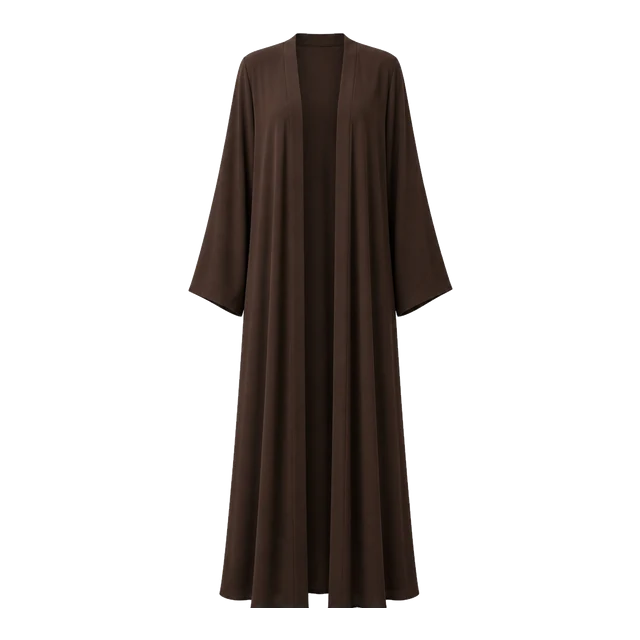
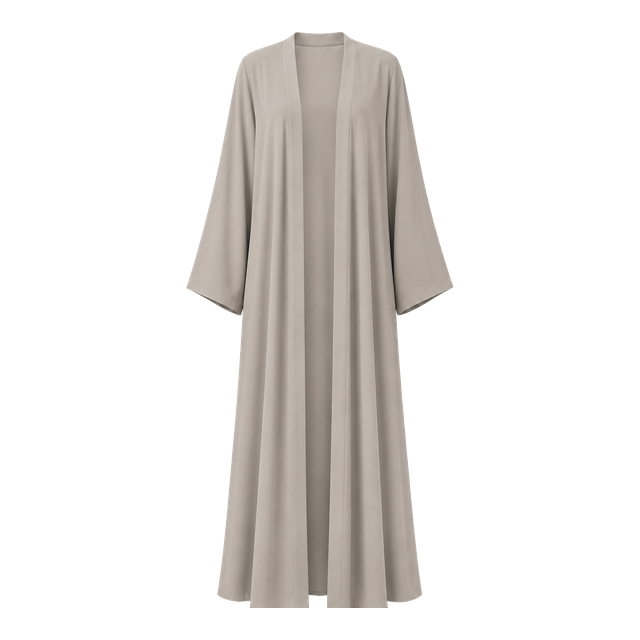
الفئاتُ السبعُ بلونٍ واحدٍ موحَّد
كانت الدفعةُ التي ركّبتُها ملوّنةً — فستانٌ خمريٌّ وعباءةٌ بنّيّةٌ وقميصٌ عاجيّ.
وهي دفعةٌ أولى ولّدها صاحبُ المنصّةِ ثمّ عادَ فولّدَ الرماديّةَ الموحّدة، وأنا
أخذتُ الأولى من مجلّدِ التنزيلاتِ بالتوقيتِ لا بالسؤال. الصفُّ خرجَ مبعثرَ
الألوانِ وهو نقيضُ ما طُلِب.

صارت السبعُ من الدفعةِ الرماديّةِ نفسِها: لونٌ واحدٌ وإضاءةٌ واحدةٌ وزاويةٌ
واحدة. والقصُّ بالتعبئةِ من الحوافِ كما قبل — فُحِصَ على أسودَ مصمتٍ فلا بقايا.

Changed region(s): [[0.2812, 0.0312, 0.7188, 0.9688]]

diff --git a/client/src/utils/platformCategories.js b/client/src/utils/platformCategories.js
@@ -60,7 +60,7 @@ export function platformCatName(key, t, lang) {
 export function platformCatImage(key) {
   const found = custom.extra.find((c) => c.key === key);
   if (found?.image) return found.image;
-  return BUILTIN_CATS.includes(key) ? `/categories/${key}.webp?v=4` : '';
+  return BUILTIN_CATS.includes(key) ? `/categories/${key}.webp?v=5` : '';
 }
 
 // نسخةُ PNG احتياطاً: WebP مدعومٌ منذ سفاري ١٤ (٢٠٢٠)، لكنّ الاحتياط رخيص
@@ -68,7 +68,7 @@ export function platformCatImage(key) {
 export function platformCatImageFallback(key) {
   const found = custom.extra.find((c) => c.key === key);
   if (found?.image) return '';
-  return BUILTIN_CATS.includes(key) ? `/categories/${key}.png?v=4` : '';
+  return BUILTIN_CATS.includes(key) ? `/categories/${key}.png?v=5` : '';
 }
 
 export function isBuiltinCat(key) {
